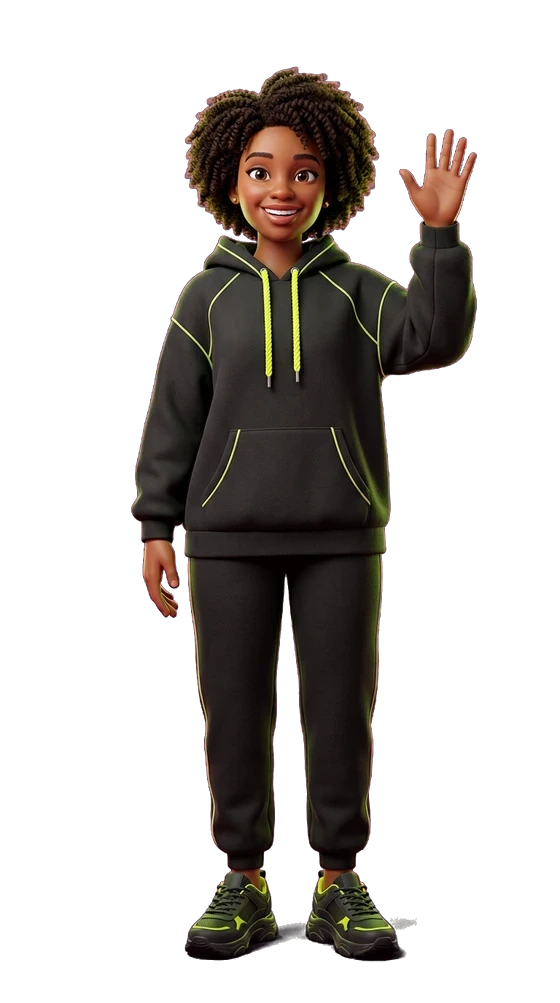
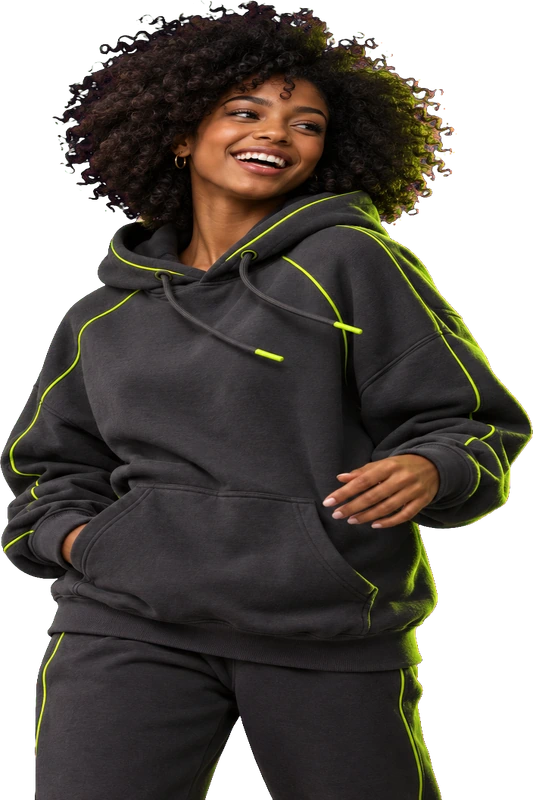
feat(auth): candid, hip-cropped login prop
The old mascot was a symmetrical, front-on, full-body stock stance — straight
spine, feet planted, one arm raised — and read as a posed asset next to a live
headline. Replaced with the same character caught mid-laugh: weight on one hip,
head tilted, hand in her hoodie pocket, cropped at the thigh so she sits in the
room instead of standing on a product page.

- prop_mascot.webp re-keyed from a magenta render (533x800, 95 KB); despill now
  gated on R and B both out-running G, which clears the purple fringe out of the
  afro without clamping skin.
- mascotAspect updated to 533/800.
- ASSET_SOURCES gains the pose rule and the despill gate; the prop plate is
  re-composited with the new render.

diff --git a/lib/screens/auth/widgets/auth_prop.dart b/lib/screens/auth/widgets/auth_prop.dart
@@ -12,7 +12,8 @@ import '../../../ui/motion.dart';
 /// charcoal with volt-lime accents, keyed from a chroma field so they sit
 /// straight on the auth backdrop without a card or a frame around them.
 abstract final class AuthArt {
-  /// Sign in / sign up.
+  /// Sign in / sign up — the mascot, caught mid-laugh, hands in her hoodie,
+  /// cropped at the hip so she reads as a prop in the room.
   static const mascot = 'assets/images/prop_mascot.webp';
 
   /// Onboarding 1 — the people you talk to.
@@ -25,7 +26,7 @@ abstract final class AuthArt {
   static const bolt = 'assets/images/prop_bolt.webp';
 
   /// width / height for each render, so a prop keeps its proportions.
-  static const mascotAspect = 560 / 1003;
+  static const mascotAspect = 533 / 800;
   static const chatAspect = 520 / 417;
   static const circleAspect = 510 / 462;
   static const boltAspect = 300 / 507;

diff --git a/assets/images/ASSET_SOURCES.md b/assets/images/ASSET_SOURCES.md
@@ -6,12 +6,12 @@ attribution requirements to carry forward.
 
 | Asset | Screen | Role | Intrinsic size | Size on disk |
 | --- | --- | --- | --- | --- |
-| `prop_mascot.webp` | Login / sign up | Full-body mascot ("Bro"), waving | 560 × 1003 | ~70 KB |
+| `prop_mascot.webp` | Login / sign up | Mascot mid-laugh, hand in her hoodie, cropped at the hip | 533 × 800 | ~95 KB |
 | `prop_chat.webp` | Onboarding 1 — people | Two rounded chat bubbles | 520 × 417 | ~29 KB |
 | `prop_circle.webp` | Onboarding 2 — your circle | Charcoal/volt torus | 510 × 462 | ~40 KB |
 | `prop_bolt.webp` | Onboarding 3 — fast & personal | Chunky lightning bolt | 300 × 507 | ~28 KB |
 
-Total: ~167 KB of WebP.
+Total: ~191 KB of WebP.
 
 ## Art direction
 
@@ -23,6 +23,9 @@ Total: ~167 KB of WebP.
   and contact shadow so the prop sits on the backdrop instead of on a card.
 - **Composition:** one object, centred, nothing orbiting it and nothing staged
   around it. Props read as objects in a room, not as a set of easter eggs.
+- **Pose:** asymmetric and candid — weight on one hip, head tilted, one hand in
+  a pocket. Props are never shot as a symmetrical, front-on asset sheet: a
+  dead-straight stance reads as a stock model next to a live headline.
 - **Typography:** none baked into the art. Every headline is live Space Grotesk
   text, so copy changes never require a re-render.
 
@@ -36,7 +39,9 @@ field, then:
    than plain RGB distance — it survives uneven chroma spill from the render's
    own glow.
 2. Un-mix the magenta out of partial-coverage edge pixels and despill any
-   residual cast, so hair, glass and bevels keep neutral edges.
+   residual cast, so hair, glass and bevels keep neutral edges. Gate the despill
+   on *both* red and blue out-running green (a magenta-only condition) — a flat
+   clamp also hits skin, which is red > green > blue.
 3. Crop to the silhouette (no padding), resize to roughly 2× the on-screen size
    and export WebP (`quality 92`, method 6).
 

diff --git a/docs/auth-look-pass.md b/docs/auth-look-pass.md
@@ -11,7 +11,7 @@ Every auth screen shows exactly one object, lit once, grounded once:
 
 | Screen | Prop | Asset |
 | --- | --- | --- |
-| Login / sign up | The "Bro" mascot, waving | `prop_mascot.webp` |
+| Login / sign up | The "Bro" mascot, mid-laugh, hand in her pocket | `prop_mascot.webp` |
 | Onboarding 1 — *people* | Two rounded chat bubbles | `prop_chat.webp` |
 | Onboarding 2 — *circle* | Charcoal/volt torus | `prop_circle.webp` |
 | Onboarding 3 — *fast & personal* | Chunky lightning bolt | `prop_bolt.webp` |
